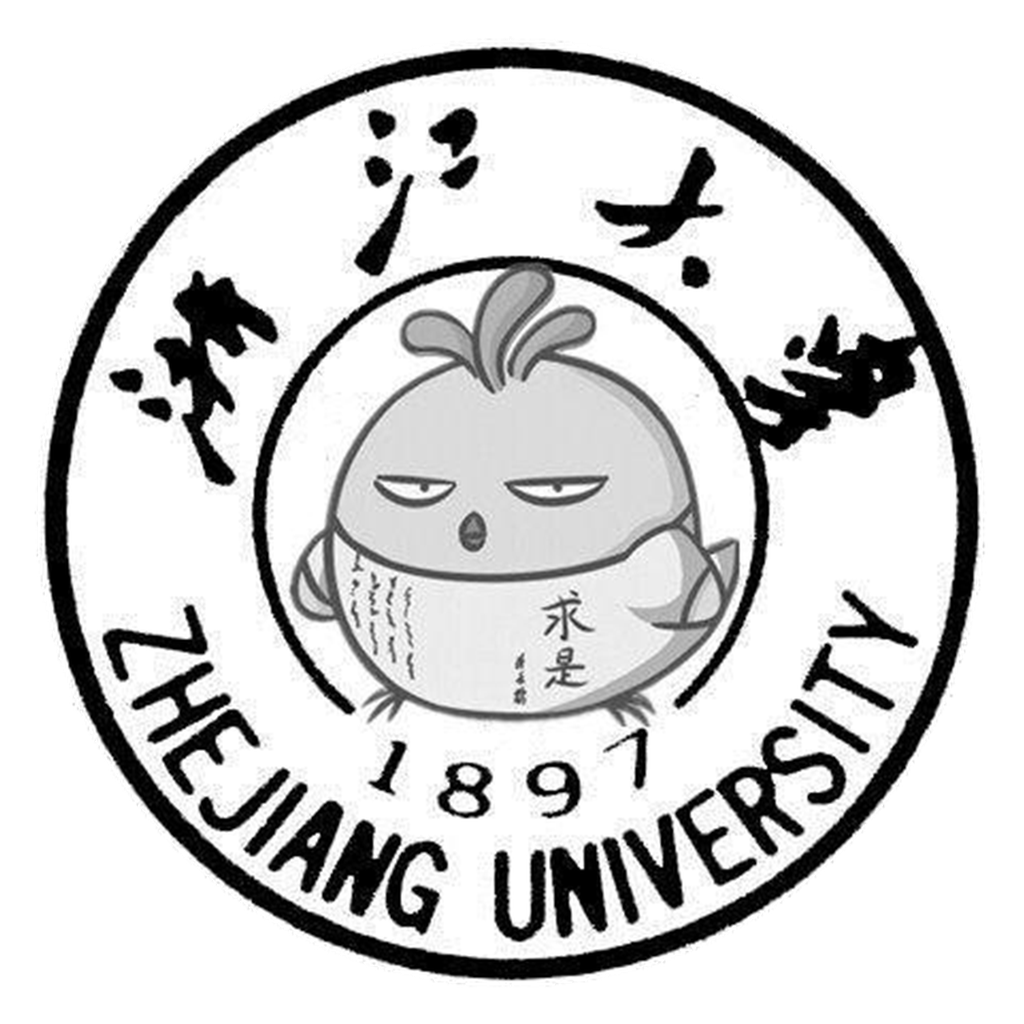
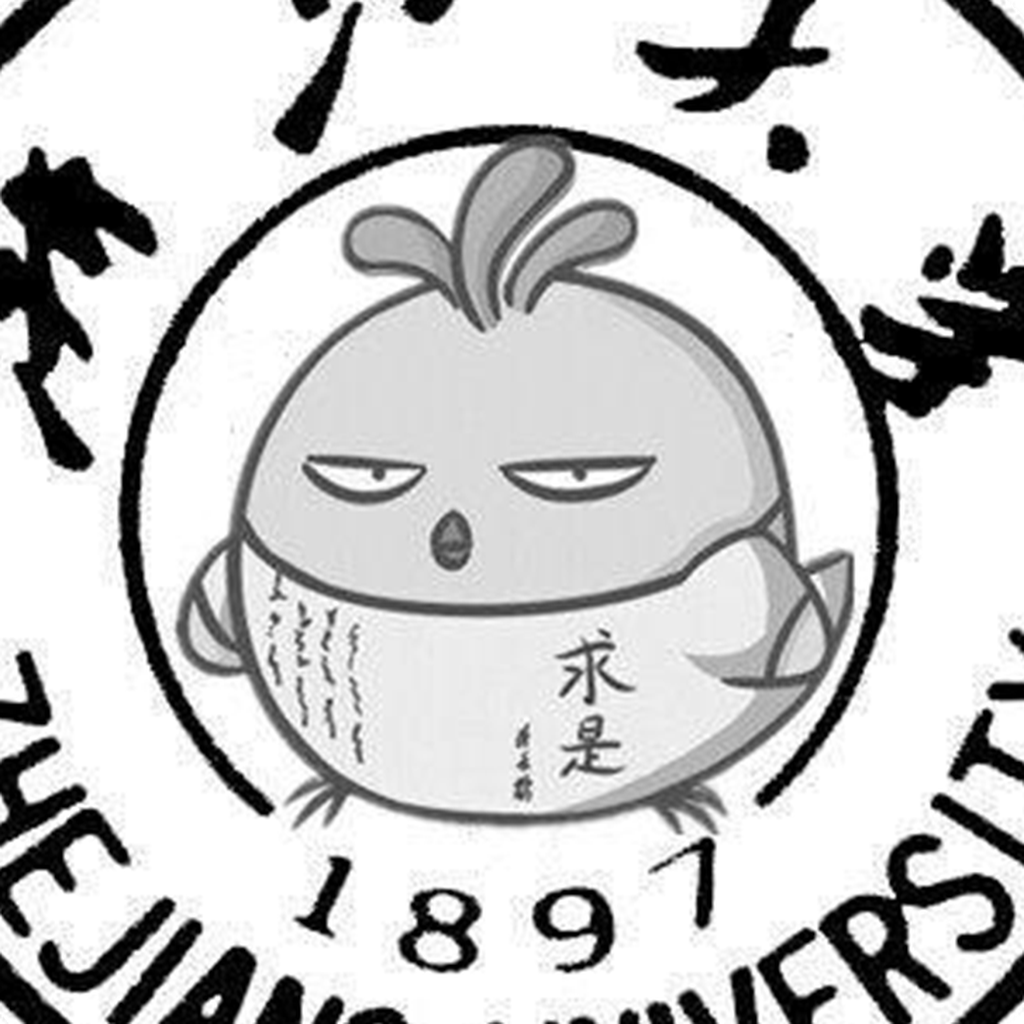
fix: 修复日历同步开关不响应，图标渲染比例调整至 71% (v0.0.3_dev4)
1. 修复日历同步开关:
   - CalendarToSystemManager 将 _calendarSyncEnabled/_hasCalendarPermission 改为公开 RxBool
   - OptionController 改为返回 RxBool 而非 plain bool，使 Obx 能追踪响应式变化
   - option_view.dart 所有读取改为 .value，确保 Obx 正确观察
   - toggleCalendarSync 直接触发 syncScholarToSystemCalendar，不再弹对话框阻塞开关
2. 图标渲染比例:
   - 从原始 1024/512/192 源图重新裁剪，统一调整至 71%

diff --git a/lib/model/calendar_to_system.dart b/lib/model/calendar_to_system.dart
@@ -8,24 +8,21 @@ import 'package:celechron/services/ohos_native_service.dart';
 class CalendarToSystemManager {
   final Scholar scholar;
 
-  final RxBool _calendarSyncEnabled = false.obs;
-  final RxBool _hasCalendarPermission = false.obs;
-
-  bool get calendarSyncEnabled => _calendarSyncEnabled.value;
-  bool get hasCalendarPermission => _hasCalendarPermission.value;
+  final RxBool calendarSyncEnabled = false.obs;
+  final RxBool hasCalendarPermission = false.obs;
 
   CalendarToSystemManager(this.scholar);
 
   Future<bool> checkPermissions() async {
     final enabled = await OhosNativeService.instance.checkCalendarPermission();
-    _hasCalendarPermission.value = enabled;
+    hasCalendarPermission.value = enabled;
     return enabled;
   }
 
   Future<bool> requestPermissions() async {
     final granted =
         await OhosNativeService.instance.requestCalendarPermission();
-    _hasCalendarPermission.value = granted;
+    hasCalendarPermission.value = granted;
     return granted;
   }
 
@@ -65,7 +62,7 @@ class CalendarToSystemManager {
 
     final count = await OhosNativeService.instance.syncCalendarEvents(events);
     if (count > 0) {
-      _calendarSyncEnabled.value = true;
+      calendarSyncEnabled.value = true;
     }
     return count > 0;
   }
@@ -73,7 +70,7 @@ class CalendarToSystemManager {
   Future<bool> clearSyncedEvents() async {
     final count = await OhosNativeService.instance.clearCalendarEvents();
     if (count > 0) {
-      _calendarSyncEnabled.value = false;
+      calendarSyncEnabled.value = false;
     }
     return true;
   }
@@ -99,7 +96,7 @@ class CalendarToSystemManager {
       builder: (BuildContext context) => CupertinoAlertDialog(
         title: const Text('同步到系统日历'),
         content: Text(
-          _calendarSyncEnabled.value
+          calendarSyncEnabled.value
               ? '课程表已同步到系统日历。'
               : '将课程表同步到系统日历，可在日历应用中查看课程安排。',
         ),
@@ -108,7 +105,7 @@ class CalendarToSystemManager {
             child: const Text('取消'),
             onPressed: () => Get.back(),
           ),
-          if (_calendarSyncEnabled.value)
+          if (calendarSyncEnabled.value)
             CupertinoDialogAction(
               isDestructiveAction: true,
               child: const Text('取消同步'),
@@ -117,7 +114,7 @@ class CalendarToSystemManager {
                 Get.back();
               },
             ),
-          if (!_calendarSyncEnabled.value)
+          if (!calendarSyncEnabled.value)
             CupertinoDialogAction(
               isDefaultAction: true,
               child: const Text('同步'),
@@ -150,13 +147,28 @@ class CalendarToSystemManager {
 
   Future<void> checkInitialCalendarSyncStatus() async {
     final hasPermission = await checkPermissions();
-    _hasCalendarPermission.value = hasPermission;
-    _calendarSyncEnabled.value = false;
+    hasCalendarPermission.value = hasPermission;
+    calendarSyncEnabled.value = false;
   }
 
   Future<void> toggleCalendarSync(BuildContext context, bool enabled) async {
     if (enabled) {
-      showCalendarSyncDialog(context);
+      final success = await syncScholarToSystemCalendar();
+      if (!success && context.mounted) {
+        showCupertinoDialog(
+          context: context,
+          builder: (BuildContext dialogContext) => CupertinoAlertDialog(
+            title: const Text('同步失败'),
+            content: const Text('请确保已授予日历权限，且课程表数据已加载。'),
+            actions: [
+              CupertinoDialogAction(
+                child: const Text('确定'),
+                onPressed: () => Get.back(),
+              ),
+            ],
+          ),
+        );
+      }
     } else {
       await clearSyncedEvents();
     }
@@ -164,8 +176,8 @@ class CalendarToSystemManager {
 
   Map<String, dynamic> getCalendarSyncStatus() {
     return {
-      'enabled': calendarSyncEnabled,
-      'hasPermission': hasCalendarPermission,
+      'enabled': calendarSyncEnabled.value,
+      'hasPermission': hasCalendarPermission.value,
       'isLoggedIn': scholar.isLogan,
       ...getSyncStats(),
     };

diff --git a/lib/page/option/option_view.dart b/lib/page/option/option_view.dart
@@ -339,8 +339,8 @@ class OptionPage extends StatelessWidget {
                       CupertinoListTile(
                         title: const Text('同步到系统日历'),
                         trailing: CupertinoAsyncSwitch(
-                          value: _optionController.calendarSyncEnabled &&
-                              _optionController.hasCalendarPermission,
+                          value: _optionController.calendarSyncEnabled.value &&
+                              _optionController.hasCalendarPermission.value,
                           onChanged: (value) async {
                             await _optionController.toggleCalendarSync(
                                 context, value);
@@ -351,8 +351,8 @@ class OptionPage extends StatelessWidget {
                         title: Text(
                           '课表同步选项',
                           style: TextStyle(
-                            color: _optionController.calendarSyncEnabled
-                                ? null // 使用默认颜色
+                            color: _optionController.calendarSyncEnabled.value
+                                ? null
                                 : CupertinoDynamicColor.resolve(
                                     CupertinoColors.quaternaryLabel, context),
                           ),
@@ -364,12 +364,12 @@ class OptionPage extends StatelessWidget {
                                         CupertinoColors.secondaryLabel,
                                         context),
                                     fontSize: 16))),
-                        onTap: _optionController.calendarSyncEnabled
+                        onTap: _optionController.calendarSyncEnabled.value
                             ? () {
                                 _optionController
                                     .showCalendarSyncDialog(context);
                               }
-                            : null, // 禁用点击
+                            : null,
                       ),
                       CupertinoListTile(
                         title: const Text('导出为iCal文件'),

diff --git a/lib/page/option/option_controller.dart b/lib/page/option/option_controller.dart
@@ -159,9 +159,9 @@ class OptionController extends GetxController {
     CalendarToIcal.showExportDialog(context, scholar.value);
   }
 
-  bool get calendarSyncEnabled => _calendarManager.calendarSyncEnabled;
+  RxBool get calendarSyncEnabled => _calendarManager.calendarSyncEnabled;
 
-  bool get hasCalendarPermission => _calendarManager.hasCalendarPermission;
+  RxBool get hasCalendarPermission => _calendarManager.hasCalendarPermission;
 
   Future<void> toggleCalendarSync(BuildContext context, bool enabled) =>
       _calendarManager.toggleCalendarSync(context, enabled);

diff --git a/lib/worker/fuse.dart b/lib/worker/fuse.dart
@@ -17,7 +17,7 @@ class Fuse {
   final HttpClient _httpClient = HttpClient();
   final DatabaseHelper _db = Get.find<DatabaseHelper>(tag: 'db');
 
-  String get displayVersion => '0.0.3_dev3';
+  String get displayVersion => '0.0.3_dev4';
 
   Fuse() {
     lastUpdateTime = DateTime(2001, 1, 1);
